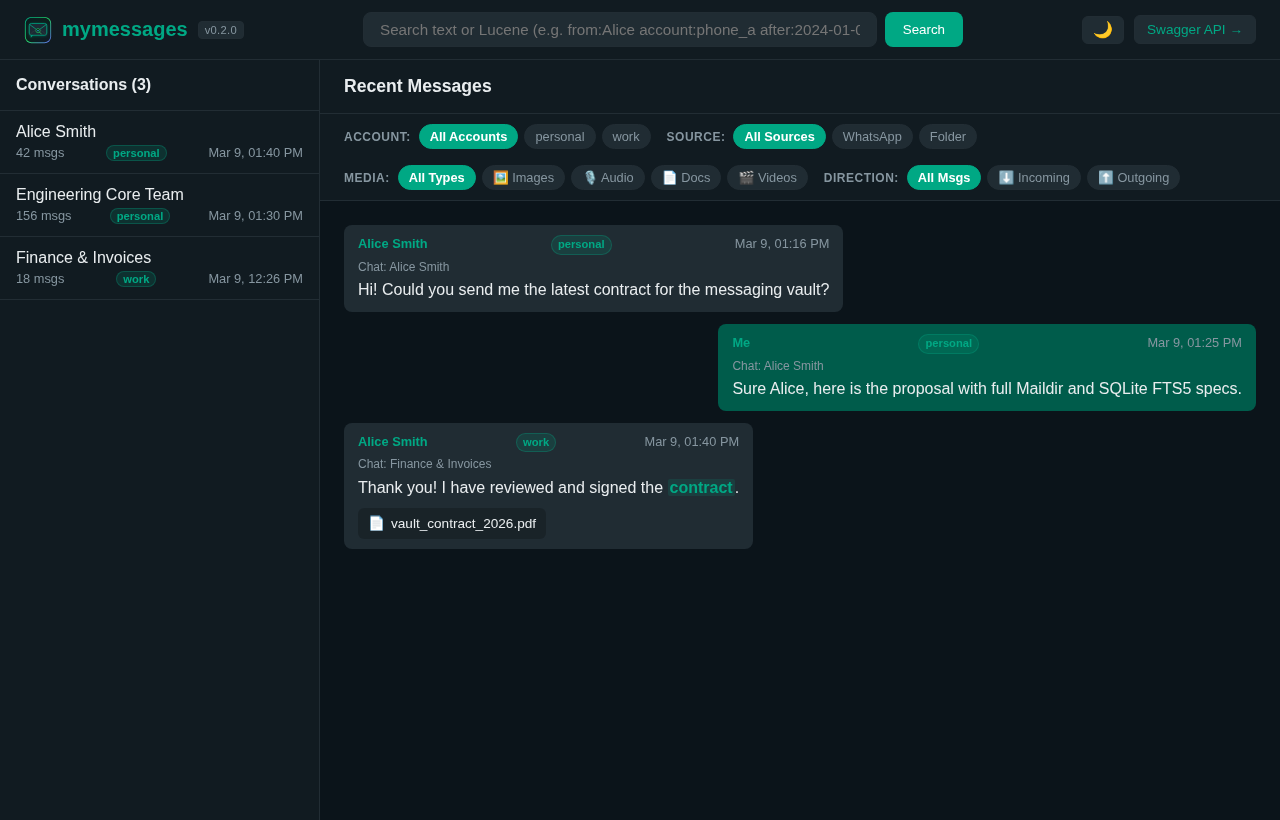
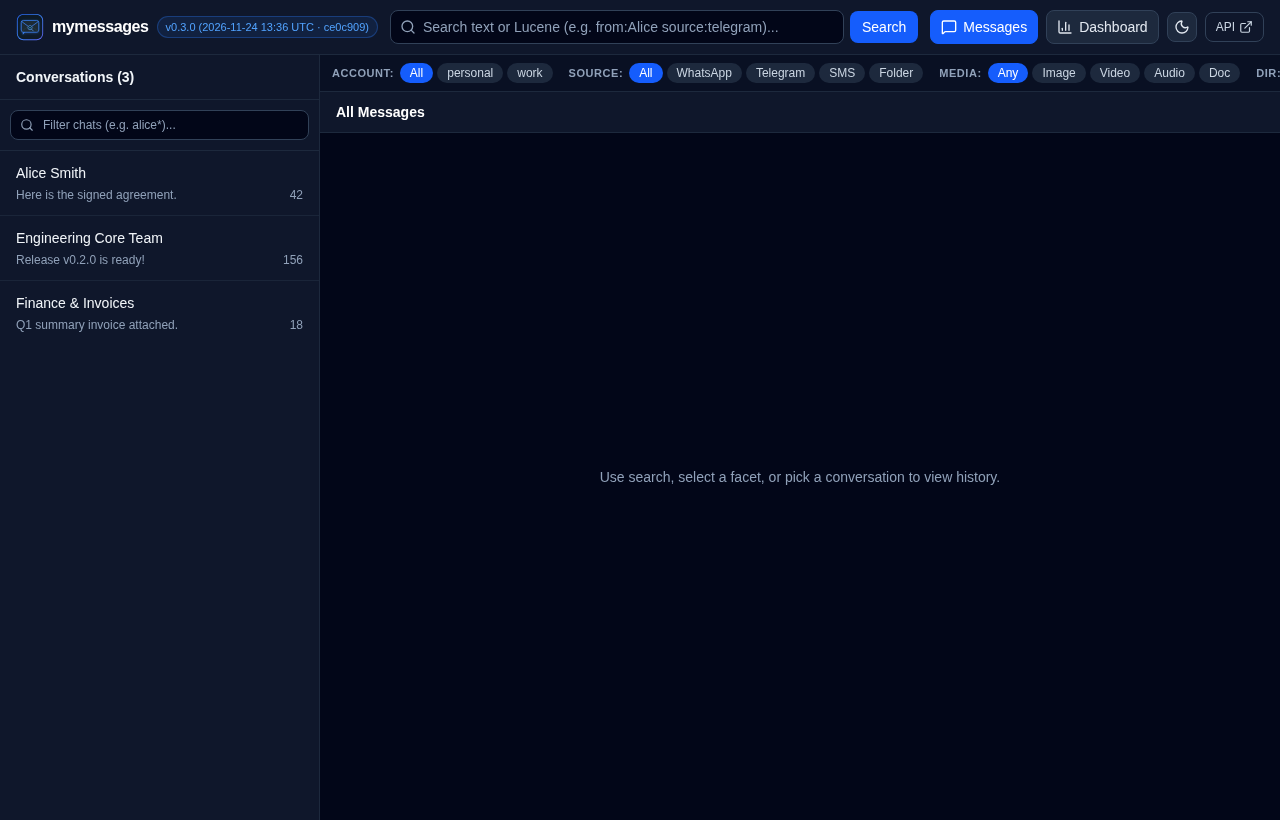
chore(release): bump version to v0.3.0 and update WebUI screenshots

diff --git a/src/api/openapi.rs b/src/api/openapi.rs
@@ -52,7 +52,7 @@ use crate::mcp::protocol::{JsonRpcError, JsonRpcRequest, JsonRpcResponse};
     ),
     info(
         title = "mymessages API",
-        version = "0.2.0",
+        version = "0.3.0",
         description = "Local-first message vault, Maildir archiver, and SQLite FTS5 search engine"
     )
 )]

diff --git a/README.md b/README.md
@@ -5,7 +5,7 @@
 # mymessages
 
 [![CI](https://github.com/rodvieirasilva/mymessages/actions/workflows/ci.yml/badge.svg)](https://github.com/rodvieirasilva/mymessages/actions/workflows/ci.yml)
-[![Version](https://img.shields.io/badge/version-v0.2.0-blue.svg)](https://github.com/rodvieirasilva/mymessages/releases)
+[![Version](https://img.shields.io/badge/version-v0.3.0-blue.svg)](https://github.com/rodvieirasilva/mymessages/releases)
 [![Rust](https://img.shields.io/badge/rust-1.99.1-orange.svg)](https://www.rust-lang.org/)
 [![License](https://img.shields.io/badge/license-MIT%20OR%20Apache--2.0-green.svg)](LICENSE)
 
